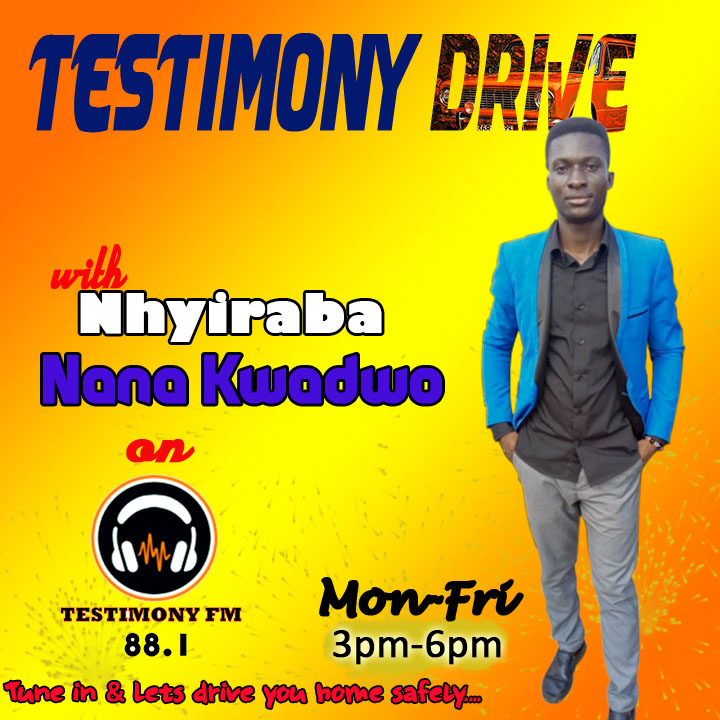
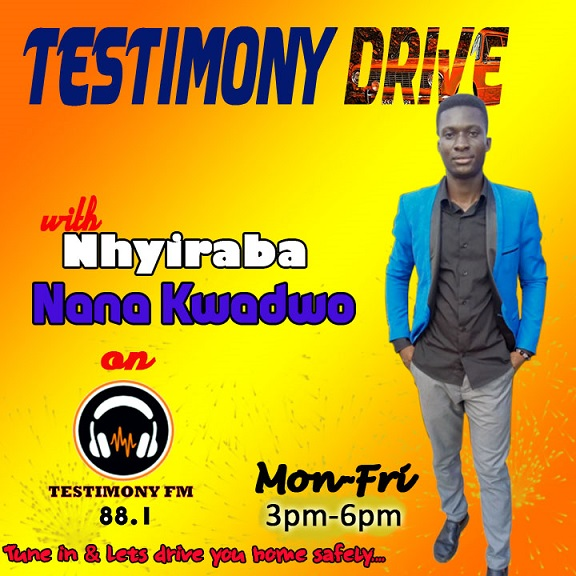
reduce image sizes

diff --git a/src/data/portfolio.js b/src/data/portfolio.js
@@ -4,7 +4,7 @@ export const images = [
     {src: "images/byfball.jpg", alt: "Bekwai Youth Football Academy"},
     {src: "images/mmm.jpg", alt: "Metro Morning Mix"},
     {src: "images/kuul.jpg", alt: "Kull Fm Morning Show"},
-    {src: "images/pempa.png", alt: "Peace Mobile Preachers Association"},
+    {src: "images/pempa.jpg", alt: "Peace Mobile Preachers Association"},
     {src: "images/star.jpg", alt: "Starr Luvv"},
     {src: "images/tdrive.jpg", alt: "Testimony Drive"},
 ];
@@ -17,6 +17,6 @@ export const videos = [
 ];
 
 export const webs = [
-    {src: "images/cuultunez.png", alt: "CuulTunezGh", link: "https://cuultunezgh.wordpress.com/"},
-    {src: "images/jobcentergh.png", alt: "Jobcentregh", link: "http://jobcentregh.com/"},
+    {src: "images/cuultunez.jpg", alt: "CuulTunezGh", link: "https://cuultunezgh.wordpress.com/"},
+    {src: "images/jobcentergh.jpg", alt: "Jobcentregh", link: "http://jobcentregh.com/"},
 ];
